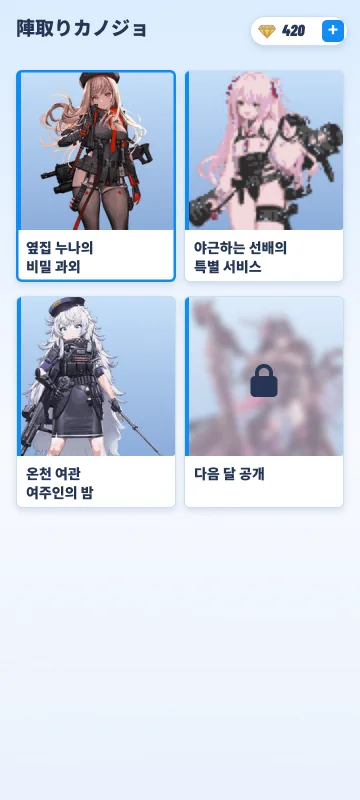
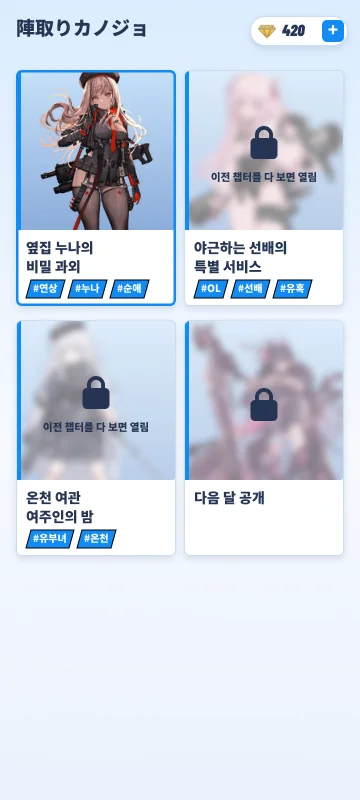
Proposal: progression unlock for characters, locked chapter cards, LITE attribute tags, LITE completion goes to map
Claude-Session: https://claude.ai/code/session_01QC4LnGUoEV4hPAaGSGh6GF

Changed region(s): [[0.0306, 0.3438, 0.9778, 0.6875], [0.5194, 0.0938, 0.9778, 0.3125]]

diff --git a/territory-romance-f2p-proposal.html b/territory-romance-f2p-proposal.html
@@ -217,7 +217,7 @@ footer{border-top:1px solid var(--line);padding-top:18px;color:var(--muted);font
  <p class="sub">고르고 → 퍼즐 중 대화하며 열고 → 다음 사진을 기대하고 → 엔딩 가챠. 7화면이 한 판 전체. 시간 초과 · 이어하기는 흐름 밖 수익화 화면(C-1)으로 분리.</p>
  <div class="sbl">1안 · 정식 <em>7화면</em><button class="pchip" type="button" data-mode="main">▶ 자동 재생 · 직접 해보기</button></div>
  <div class="rail">
-  <figure class="shot"><img src="japan-project/proposal-screens-b/01-lobby.webp" alt="" loading="lazy"><figcaption><b><i>01</i>로비</b><span class="kw">시추에이션 제목 + 속성 태그로 고르기</span></figcaption></figure>
+  <figure class="shot"><img src="japan-project/proposal-screens-b/01-lobby.webp" alt="" loading="lazy"><figcaption><b><i>01</i>로비</b><span class="kw">시추에이션 제목 + 속성 태그 · 사진 4장 모으면 다음 캐릭터 열림</span></figcaption></figure>
   <figure class="shot"><img src="japan-project/proposal-screens-b/02-puzzle.webp" alt="" loading="lazy"><figcaption><b><i>02</i>땅따먹기</b><span class="kw">응원 대사 + 민감 부위 노출 시 보너스 대사</span></figcaption></figure>
   <figure class="shot"><img src="japan-project/proposal-screens-b/03-question.webp" alt="" loading="lazy"><figcaption><b><i>03</i>퍼즐 중 질문</b><span class="kw">퍼즐 중 야한 질문 · 답에 따라 공개 영역 변화</span></figcaption></figure>
   <figure class="shot"><img src="japan-project/proposal-screens-b/05-clear.webp" alt="" loading="lazy"><figcaption><b><i>04</i>사진 획득</b><span class="kw">사진 획득 · 다음 사진 미리보기</span></figcaption></figure>
@@ -227,7 +227,7 @@ footer{border-top:1px solid var(--line);padding-top:18px;color:var(--muted);font
  </div>
  <div class="sbl lite">LITE <em>6화면 · 엔딩 가챠 · 이어하기 없음</em><button class="pchip" type="button" data-mode="lite">▶ 자동 재생 · 직접 해보기</button></div>
  <div class="rail">
-  <figure class="shot"><img src="japan-project/proposal-screens-b/lt00.webp" alt="" loading="lazy"><figcaption><b><i>00</i>챕터 목록</b><span class="kw">시추에이션 제목으로 바로 고르기</span></figcaption></figure>
+  <figure class="shot"><img src="japan-project/proposal-screens-b/lt00.webp" alt="" loading="lazy"><figcaption><b><i>00</i>챕터 목록</b><span class="kw">시추에이션 제목 + 속성 태그 · 다 보면 다음 챕터 열림</span></figcaption></figure>
   <figure class="shot"><img src="japan-project/proposal-screens-b/lt01.webp" alt="" loading="lazy"><figcaption><b><i>01</i>챕터 맵</b><span class="kw">수위가 점점 높아지는 사진</span></figcaption></figure>
   <figure class="shot"><img src="japan-project/proposal-screens-b/lt02.webp" alt="" loading="lazy"><figcaption><b><i>02</i>퍼즐 1판</b><span class="kw">응원 대사 + 민감 부위 노출 시 보너스 대사</span></figcaption></figure>
   <figure class="shot"><img src="japan-project/proposal-screens-b/lt02b.webp" alt="" loading="lazy"><figcaption><b><i>02b</i>퍼즐 중 질문</b><span class="kw">퍼즐 중 야한 질문 · 답에 따라 공개 영역 변화</span></figcaption></figure>
@@ -304,7 +304,7 @@ footer{border-top:1px solid var(--line);padding-top:18px;color:var(--muted);font
   <div class="none"><div><b>에너지 · 아이템 없음</b><span>퍼즐 입장 무료 · 부스터 슬롯은 잠금 상태로 노출 (v1.1 해제)</span></div></div>
  </div>
  <div class="money">
-  <div class="mcard"><img src="japan-project/proposal-screens-b/06-map.webp" alt="" loading="lazy"><div><h3>사진 열기</h3><div class="price"><svg class="ic" aria-hidden="true"><use href="#i-gem"/></svg>100 ~ 200</div><p>모든 캐릭터 첫 사진은 무료. 사진 2 / 3 / 4 = 100 / 150 / 200 (캐릭터당 450).</p></div></div>
+  <div class="mcard"><img src="japan-project/proposal-screens-b/06-map.webp" alt="" loading="lazy"><div><h3>사진 열기</h3><div class="price"><svg class="ic" aria-hidden="true"><use href="#i-gem"/></svg>100 ~ 200</div><p>캐릭터마다 첫 사진은 무료. 사진 2 / 3 / 4 = 100 / 150 / 200 (캐릭터당 450). 사진 4장을 모으면 다음 캐릭터가 열림.</p></div></div>
   <div class="mcard"><img src="japan-project/proposal-screens-b/04-timeup.webp" alt="" loading="lazy"><div><h3>이어하기 · 보조</h3><div class="price"><svg class="ic" aria-hidden="true"><use href="#i-gem"/></svg>150</div><p>사진 직전 실패에서 +30초 (흐름 밖 C-1). 퍼즐 결제 지점은 이것 하나 · 매출 비중은 작게 봄. 첫 결제 스타터 팩 ¥980.</p></div></div>
   <div class="mcard"><img src="japan-project/proposal-screens-b/03-question.webp" alt="" loading="lazy"><div><h3>되돌리기</h3><div class="price"><svg class="ic" aria-hidden="true"><use href="#i-gem"/></svg>20 / 회</div><p>퍼즐 중 질문에서 싫어하는 답을 골랐을 때. 하루 1회 무료.</p></div></div>
   <div class="mcard"><img src="japan-project/proposal-screens-b/e1-repull.webp" alt="" loading="lazy"><div><h3>엔딩 다시 뽑기</h3><div class="price"><svg class="ic" aria-hidden="true"><use href="#i-gem"/></svg>300</div><p>R 70 · SR 25 · UR 5%. 5회째 SR↑ · 20회째 UR 확정.</p></div></div>
@@ -355,9 +355,9 @@ footer{border-top:1px solid var(--line);padding-top:18px;color:var(--muted);font
   <figure class="shot"><img src="japan-project/proposal-screens-b/04-timeup.webp" alt="" loading="lazy"><figcaption><b>C-1 이어하기</b><span>02 퍼즐 실패 시 · 젬 150 = +30초</span></figcaption></figure>
  </div>
  <div class="spec">
-  <div><b>콘텐츠</b><p>캐릭터 4명 (첫 1명 무료)<br>캐릭터당 스탠딩 1 · 사진 4 · 엔딩 1구도 (R/SR/UR 차분) · UR 짧은 루프 영상 1개 (GIF 형태 · 3~5초 [E])<br>퍼즐 10판 · 판당 질문 1개 + 응원 · 핫스폿 대사 (고정 시나리오, LLM 없음)</p></div>
+  <div><b>콘텐츠</b><p>캐릭터 4명 (첫 캐릭터부터 순서대로 · 사진 4장 모으면 다음 캐릭터 해금)<br>캐릭터당 스탠딩 1 · 사진 4 · 엔딩 1구도 (R/SR/UR 차분) · UR 짧은 루프 영상 1개 (GIF 형태 · 3~5초 [E])<br>퍼즐 10판 · 판당 질문 1개 + 응원 · 핫스폿 대사 (고정 시나리오, LLM 없음)</p></div>
   <div><b>시스템</b><p>퍼즐 중 질문 · 응원 · 핫스폿 · 챕터 맵(다음 사진 미리보기)<br>땅따먹기 퍼즐 (입장 무료 · 부스터 슬롯 잠금 표시) · 이어하기 · 2연속 실패 도움 모드<br>사진 열기(첫 사진 무료 · 이후 젬) · 취향 태그 · 되돌리기 하루 1회 무료 · 친밀도 수치 없음<br>엔딩 뽑기: 첫 1회 무료 · 확률 + 스텝업</p></div>
-  <div><b>경제</b><p>재화는 젬 하나 (유료 구매분 · 무료 지급분 내부 구분)<br>되돌리기 하루 1회 무료 → 이후 <svg class="ic" aria-hidden="true"><use href="#i-gem"/></svg>20<br>모든 캐릭터 처음부터 열림 · 첫 클리어 판마다 젬 +10<br>상점 3팩(¥1,000 · 3,000 · 5,000) + 스타터 팩 · 플랫폼 포인트 결제</p></div>
+  <div><b>경제</b><p>재화는 젬 하나 (유료 구매분 · 무료 지급분 내부 구분)<br>되돌리기 하루 1회 무료 → 이후 <svg class="ic" aria-hidden="true"><use href="#i-gem"/></svg>20<br>캐릭터는 진행으로 해금 (사진 4장 → 다음 캐릭터 · 결제 해금 없음) · 첫 클리어 판마다 젬 +10<br>상점 3팩(¥1,000 · 3,000 · 5,000) + 스타터 팩 · 플랫폼 포인트 결제</p></div>
   <div><b>연출 · 운영</b><p>UR = 최고 수위 일러 + GIF 형태 짧은 루프 영상 (3~5초 [E]) + 자동으로 흐르는 홀로 (센서 없음)<br>플랫폼 로그인 · 결제 SDK · 서버 세이브<br>확률 표기 · 특상법 · 자금결제법 표기 · 컴프가챠 없음</p></div>
  </div>
  <div class="cut"><i>뺀 것</i>전체 보기·필터 · 취향 노트 화면 · 관계 등급 보너스 · 마음 콤보 · 루트 패스 · 일일 미션 · Live2D UR · 기울이기 홀로 · 퍼즐 부스터 기능(슬롯은 잠금 표시) · 잠금 캐릭터 전용 애니 → 전부 업데이트로 이관</div>

diff --git a/japan-project/jintori-mockup/index.html b/japan-project/jintori-mockup/index.html
@@ -240,10 +240,10 @@ function showClear(){var c=document.getElementById('clear'),v=document.getElemen
   document.getElementById('again').style.visibility='hidden';document.getElementById('toFlow').style.visibility='hidden';v.style.transition='none';v.style.height='20%';c.classList.add('on');
   setTimeout(function(){v.style.transition='';v.style.height='0';},700);
   setTimeout(function(){document.getElementById('clrH').textContent='사진 2 완성!';document.getElementById('clrChip').style.display='none';
-    document.getElementById('clrT').textContent='리아';document.getElementById('clrP').textContent='"…다음 사진은 더 보여줄게♡"';document.getElementById('again').style.visibility='';document.getElementById('toFlow').style.visibility='';stopAuto();if(wasAuto){autoFlow=true;flowT=setTimeout(function(){showFlow(0);},1500);}},1800);}
+    document.getElementById('clrT').textContent='리아';document.getElementById('clrP').textContent='"…다음 사진은 더 보여줄게♡"';document.getElementById('toFlow').textContent='맵으로 ▶';document.getElementById('again').style.display='none';document.getElementById('toFlow').style.visibility='';stopAuto();if(wasAuto){autoFlow=true;flowT=setTimeout(function(){showFlow(0);},1500);}},1800);}
 var fadeK=0;
 function timeUp(){if(LITE){popup('시간 끝! 바로 다시 도전');var a=auto;setTimeout(function(){reset();if(a){auto=true;}},900);paused=true;return;}paused=true;over=true;document.getElementById('tmsg').textContent=Math.max(1,80-Math.floor(claimed*100))+'%만 더 열면 사진 1!';document.getElementById('tov').classList.add('on');stopAuto();}
-function hideAll(){clearTimeout(flowT);autoFlow=false;document.getElementById('flow').classList.remove('on');var v=document.getElementById('veil');if(v)v.style.height='0';document.getElementById('clrChip').style.display='none';document.getElementById('again').style.visibility='';document.getElementById('toFlow').style.visibility='';if(!LITE){document.getElementById('clrH').textContent='STAGE CLEAR';document.getElementById('clrT').textContent='사진 1 획득!';document.getElementById('clrP').textContent='"…다음 사진은 더 보여줄게♡"';}['qov','clear','tov'].forEach(function(id){document.getElementById(id).classList.remove('on');});fadeK=0;}
+function hideAll(){var tf=document.getElementById('toFlow');if(tf){tf.textContent='챕터 맵으로 ▶';document.getElementById('again').style.display='';}clearTimeout(flowT);autoFlow=false;document.getElementById('flow').classList.remove('on');var v=document.getElementById('veil');if(v)v.style.height='0';document.getElementById('clrChip').style.display='none';document.getElementById('again').style.visibility='';document.getElementById('toFlow').style.visibility='';if(!LITE){document.getElementById('clrH').textContent='STAGE CLEAR';document.getElementById('clrT').textContent='사진 1 획득!';document.getElementById('clrP').textContent='"…다음 사진은 더 보여줄게♡"';}['qov','clear','tov'].forEach(function(id){document.getElementById(id).classList.remove('on');});fadeK=0;}
 
 // ---------- movement ----------
 function tryMove(dx,dy){
